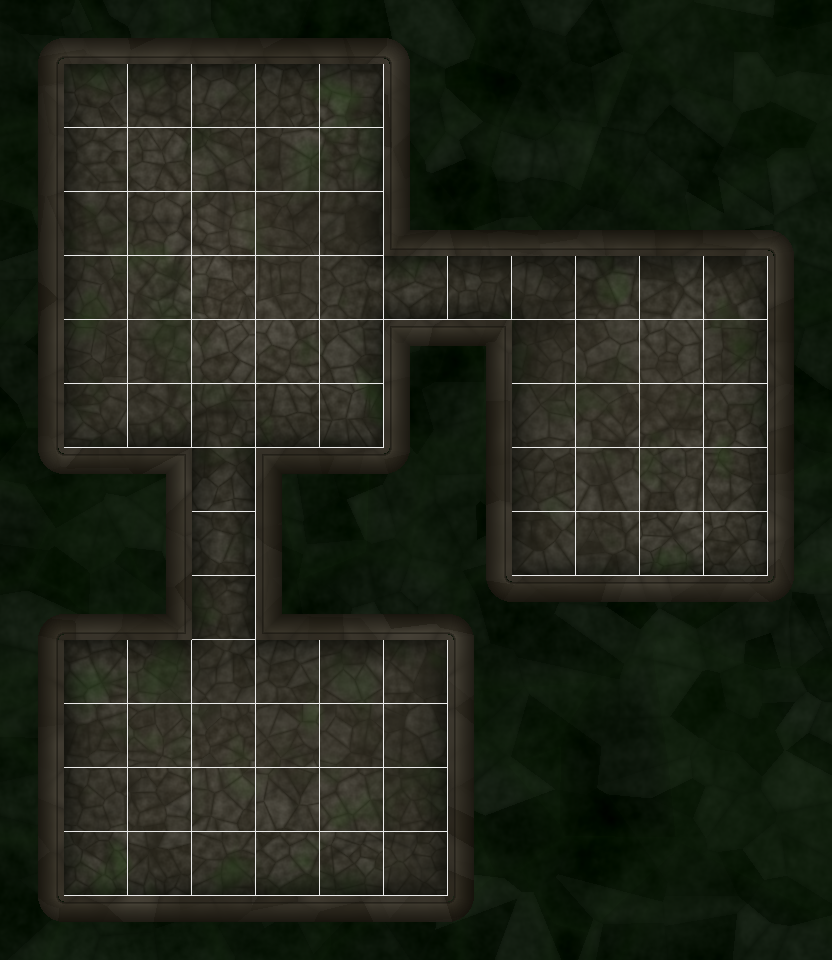
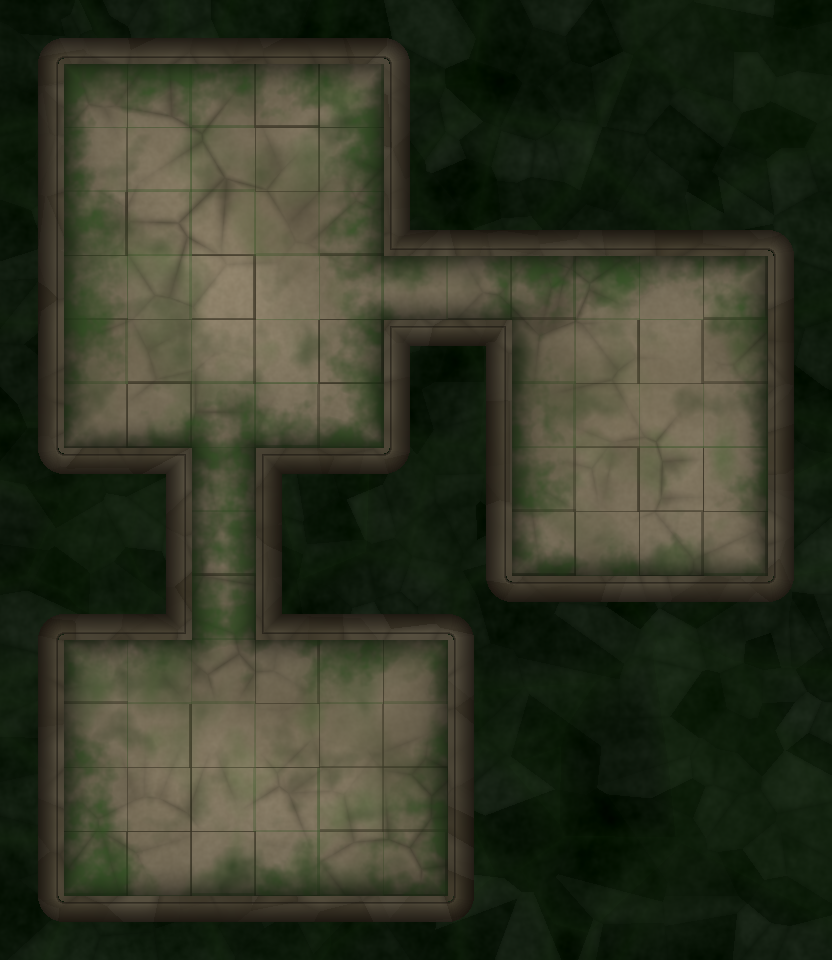
Simple tiles, variable grout, vine invasion, warm jungle palette
Inspired by AI-generated reference image:
- Floor tiles simplified to subtle flat texture (detail comes from
  grout and overlays, not busy tile surfaces).
- Variable-width grout lines (1-3px) with per-edge random darkness
  and optional moss fill, replacing the uniform grid overlay.
- Vine invasion layer: theme-colored tendrils creep from exterior
  into rooms along walls using multi-scale noise for organic shapes.
- Jungle palette shifted to warm tan/beige sandstone to match
  classic temple ruin aesthetic.

diff --git a/tools/texgen/preview.py b/tools/texgen/preview.py
@@ -156,21 +156,21 @@ def make_floor_mask():
 THEMES = {
     'jungle': {
         'name': 'Jungle Temple',
-        'floor_base': (82, 78, 68),
-        'floor_accent': (58, 53, 42),
-        'mortar': (42, 38, 28),
-        'moss_colors': [(40, 82, 30), (58, 105, 40), (48, 70, 35)],
-        'stain': (50, 45, 35),
-        'wall_top': (55, 50, 40),
-        'wall_face_lit': (65, 60, 48),
-        'wall_face_dark': (25, 22, 15),
-        'exterior': (10, 22, 8),
-        'exterior_accent': (5, 12, 4),
-        'exterior_detail': (15, 30, 10),
-        'shadow_color': (8, 12, 5),
+        'floor_base': (155, 142, 118),       # Warm tan sandstone
+        'floor_accent': (135, 122, 98),      # Slightly darker tan
+        'mortar': (65, 58, 42),              # Dark grout
+        'moss_colors': [(45, 85, 32), (62, 110, 42), (30, 55, 22)],
+        'stain': (90, 82, 60),              # Warm dirt stain
+        'wall_top': (75, 68, 52),
+        'wall_face_lit': (85, 78, 60),
+        'wall_face_dark': (30, 25, 18),
+        'exterior': (12, 25, 10),
+        'exterior_accent': (6, 14, 5),
+        'exterior_detail': (18, 35, 12),
+        'shadow_color': (20, 22, 15),
         'stone_density': 0.7,
-        'moss_coverage': 0.35,
-        'contrast': 35,
+        'moss_coverage': 0.45,
+        'contrast': 15,                      # Subtle tile variation
     },
     'ice': {
         'name': 'Frozen Caverns',
@@ -216,55 +216,40 @@ THEMES = {
 # ---------------------------------------------------------------------------
 
 def generate_floor_tile(size, theme, seed):
-    """Generate a single unique floor tile on the fly."""
+    """
+    Generate a simple, subtle floor tile. Mostly flat with gentle
+    color variation — the detail comes from grout and overlays,
+    not the tile surface itself.
+    """
     pn = VectorPerlinNoise(seed)
     rng = np.random.RandomState(seed)
 
     base = np.array(theme['floor_base'], dtype=np.float64)
     accent = np.array(theme['floor_accent'], dtype=np.float64)
-    mortar = np.array(theme['mortar'], dtype=np.float64)
-    n_cells = int(6 + rng.randint(6))  # 6-11 cells per tile for variety
-
-    # Voronoi for stone blocks
-    pts = rng.uniform(0, size, (n_cells, 2))
-    cell_vals = rng.uniform(0.2, 1.0, n_cells)
-    # Tile 3x3 for seamless edges
-    pts_tiled = []
-    vals_tiled = []
-    for dx in (-size, 0, size):
-        for dy in (-size, 0, size):
-            pts_tiled.append(pts + np.array([dx, dy]))
-            vals_tiled.append(cell_vals)
-    pts_all = np.concatenate(pts_tiled)
-    vals_all = np.concatenate(vals_tiled)
 
     yy, xx = np.mgrid[0:size, 0:size]
-    coords = np.stack([xx.ravel(), yy.ravel()], axis=1).astype(np.float64)
-    dists = np.sqrt(((coords[:, None, :] - pts_all[None, :, :]) ** 2).sum(axis=2))
-    nearest = np.argmin(dists, axis=1)
-    cells = vals_all[nearest].reshape(size, size)
-    part = np.partition(dists, 2, axis=1)[:, :2]
-    part.sort(axis=1)
-    edges = (part[:, 1] - part[:, 0]).reshape(size, size)
-    mn, mx = edges.min(), edges.max()
-    if mx - mn > 1e-8:
-        edges = (edges - mn) / (mx - mn)
-
-    # Surface noise
-    x_scaled = xx.astype(np.float64) / size * 6.0
-    y_scaled = yy.astype(np.float64) / size * 6.0
-    surface = pn.fbm_2d(x_scaled, y_scaled, octaves=3)
+    # Gentle surface variation (low frequency, low amplitude)
+    x_scaled = xx.astype(np.float64) / size * 3.0
+    y_scaled = yy.astype(np.float64) / size * 3.0
+    surface = pn.fbm_2d(x_scaled, y_scaled, octaves=2)
     surface = (surface - surface.min()) / (surface.max() - surface.min() + 1e-8)
 
+    # Very fine grain texture
+    x_fine = xx.astype(np.float64) / size * 10.0
+    y_fine = yy.astype(np.float64) / size * 10.0
+    fine = pn.fbm_2d(x_fine + 50, y_fine + 50, octaves=2)
+    fine = (fine - fine.min()) / (fine.max() - fine.min() + 1e-8)
+
+    # Random overall hue shift for this tile
+    hue_shift = rng.uniform(-0.15, 0.15)
+
     tile = np.zeros((size, size, 4), dtype=np.float64)
-    t = cells
-    contrast = theme['contrast']
+    t = 0.5 + hue_shift + (surface - 0.5) * 0.3
+    t = np.clip(t, 0, 1)
     for c in range(3):
         color = base[c] * t + accent[c] * (1 - t)
-        color += (surface - 0.5) * contrast
-        # Mortar lines
-        mortar_mask = np.clip(1.0 - edges * 4.0, 0, 1) ** 1.5
-        color = color * (1 - mortar_mask * 0.7) + mortar[c] * mortar_mask * 0.7
+        # Very subtle fine grain
+        color += (fine - 0.5) * 8
         tile[:, :, c] = np.clip(color, 0, 255)
     tile[:, :, 3] = 255
     return tile
@@ -272,21 +257,145 @@ def generate_floor_tile(size, theme, seed):
 
 def stamp_unique_floors(canvas_arr, floor_mask, theme):
     """Stamp a unique procedural tile for every floor cell. No repeats."""
-    print("    Floor tiles (128 unique)...", end='', flush=True)
-    # Count floor cells and pre-generate enough unique tiles
+    print("    Floor tiles...", end='', flush=True)
     floor_cells = [(r, c) for r in range(ROWS) for c in range(COLS) if LAYOUT[r, c] == 1]
     n_tiles = max(len(floor_cells), 128)
-    tiles = []
-    for i in range(n_tiles):
-        tiles.append(generate_floor_tile(TILE, theme, seed=1000 + i))
+    tiles = [generate_floor_tile(TILE, theme, seed=1000 + i) for i in range(n_tiles)]
 
-    # Assign tiles to cells — just use sequential assignment (all unique)
     rng = np.random.RandomState(42)
     indices = list(range(n_tiles))
     rng.shuffle(indices)
     for idx, (r, c) in enumerate(floor_cells):
         tile = tiles[indices[idx % n_tiles]]
         canvas_arr[r*TILE:(r+1)*TILE, c*TILE:(c+1)*TILE] = tile
+    print(" done")
+
+
+def render_grout(canvas_arr, floor_mask, theme):
+    """
+    Draw grout/mortar lines between floor tiles with varying width
+    and darkness. Each edge gets a slightly different width (1-3px)
+    seeded by position. Some edges get moss-filled grout.
+    """
+    print("    Grout lines...", end='', flush=True)
+    mortar = np.array(theme['mortar'], dtype=np.float64)
+    moss_colors = theme['moss_colors']
+    rng = np.random.RandomState(99)
+
+    for r in range(ROWS):
+        for c in range(COLS):
+            if LAYOUT[r, c] != 1:
+                continue
+            x0, y0 = c * TILE, r * TILE
+
+            # Determine grout properties seeded by position
+            h_seed = hash((r, c, 'h')) & 0xFFFF
+            v_seed = hash((r, c, 'v')) & 0xFFFF
+            h_rng = np.random.RandomState(h_seed)
+            v_rng = np.random.RandomState(v_seed)
+
+            # Bottom edge grout (if cell below is also floor)
+            h_width = h_rng.randint(1, 4)  # 1-3px
+            h_dark = 0.5 + h_rng.uniform(0, 0.4)  # darkness
+            h_mossy = h_rng.random() < theme['moss_coverage']
+
+            for dy in range(h_width):
+                py = y0 + TILE - 1 - dy
+                if py < 0 or py >= PX_H:
+                    continue
+                for px in range(x0, min(x0 + TILE, PX_W)):
+                    if not floor_mask[py, px]:
+                        continue
+                    t = h_dark * (1 - dy / max(h_width, 1) * 0.3)
+                    if h_mossy and len(moss_colors) > 0:
+                        mc = np.array(moss_colors[0], dtype=np.float64)
+                        for ch in range(3):
+                            canvas_arr[py, px, ch] = np.clip(
+                                canvas_arr[py, px, ch] * (1 - t * 0.5) + mc[ch] * t * 0.5, 0, 255)
+                    else:
+                        for ch in range(3):
+                            canvas_arr[py, px, ch] = np.clip(
+                                canvas_arr[py, px, ch] * (1 - t) + mortar[ch] * t, 0, 255)
+
+            # Right edge grout
+            v_width = v_rng.randint(1, 4)
+            v_dark = 0.5 + v_rng.uniform(0, 0.4)
+            v_mossy = v_rng.random() < theme['moss_coverage']
+
+            for dx in range(v_width):
+                px = x0 + TILE - 1 - dx
+                if px < 0 or px >= PX_W:
+                    continue
+                for py in range(y0, min(y0 + TILE, PX_H)):
+                    if not floor_mask[py, px]:
+                        continue
+                    t = v_dark * (1 - dx / max(v_width, 1) * 0.3)
+                    if v_mossy and len(moss_colors) > 0:
+                        mc = np.array(moss_colors[0], dtype=np.float64)
+                        for ch in range(3):
+                            canvas_arr[py, px, ch] = np.clip(
+                                canvas_arr[py, px, ch] * (1 - t * 0.5) + mc[ch] * t * 0.5, 0, 255)
+                    else:
+                        for ch in range(3):
+                            canvas_arr[py, px, ch] = np.clip(
+                                canvas_arr[py, px, ch] * (1 - t) + mortar[ch] * t, 0, 255)
+    print(" done")
+
+
+def render_vine_invasion(canvas_arr, floor_mask, inner_dist, theme):
+    """
+    Vines/foliage/frost/lava creeping from the exterior into the rooms
+    along the walls. Uses wall proximity + noise to create organic
+    tendrils that invade the floor space.
+    """
+    if theme['moss_coverage'] <= 0:
+        return
+    print("    Vine invasion...", end='', flush=True)
+    # Multiple noise scales for organic tendril shapes
+    n1 = continuous_noise(PX_H, PX_W, scale=1.5, octaves=4, seed=800)
+    n2 = continuous_noise(PX_H, PX_W, scale=4.0, octaves=3, seed=801)
+    n3 = continuous_noise(PX_H, PX_W, scale=0.5, octaves=2, seed=802)
+
+    # Invasion distance: how far vines reach from wall
+    max_invasion = TILE * 1.8
+    # Base invasion mask: strong near walls, fading inward
+    wall_prox = np.clip(1.0 - inner_dist / max_invasion, 0, 1)
+
+    # Shape the invasion with noise — creates tendril/finger shapes
+    tendril = wall_prox * (0.3 + 0.7 * n1) * (0.5 + 0.5 * n2)
+    # Large-scale variation: some areas have more invasion
+    tendril *= (0.2 + 0.8 * np.clip(n3 * 1.5, 0, 1))
+
+    # Threshold to get defined edges
+    vine_mask = np.clip((tendril - 0.25) * 4.0, 0, 1)
+    vine_mask[~floor_mask] = 0
+
+    # Use multiple moss colors for depth
+    colors = [np.array(mc, dtype=np.float64) for mc in theme['moss_colors']]
+    if not colors:
+        return
+
+    # Layer 1: base vine color (darkest)
+    alpha1 = vine_mask * 0.6
+    for c in range(3):
+        canvas_arr[:, :, c] += (colors[0][c] - canvas_arr[:, :, c]) * alpha1
+
+    # Layer 2: highlights on thicker parts
+    if len(colors) > 1:
+        highlight_mask = np.clip((tendril - 0.4) * 5.0, 0, 1) * vine_mask
+        alpha2 = highlight_mask * 0.4
+        for c in range(3):
+            canvas_arr[:, :, c] += (colors[1][c] - canvas_arr[:, :, c]) * alpha2
+
+    # Layer 3: dark edges/shadows on vine mass
+    if len(colors) > 2:
+        # Use the gradient at the edge of vine coverage for shadow
+        edge_dark = vine_mask * np.clip(1.0 - tendril * 2, 0, 1)
+        alpha3 = edge_dark * 0.3
+        dark = colors[2] * 0.5
+        for c in range(3):
+            canvas_arr[:, :, c] += (dark[c] - canvas_arr[:, :, c]) * alpha3
+
     print(" done")
 
 
@@ -523,17 +632,20 @@ def render_preview(theme_name, output_path):
     print(" done")
 
     stamp_unique_floors(canvas_arr, floor_mask, theme)
+    render_grout(canvas_arr, floor_mask, theme)
 
     print("    Overlays...", end='', flush=True)
     render_overlays(canvas_arr, floor_mask, inner_dist, theme)
     print(" done")
 
+    render_vine_invasion(canvas_arr, floor_mask, inner_dist, theme)
     render_ao(canvas_arr, floor_mask, inner_dist)
     render_radial_lighting(canvas_arr, floor_mask, inner_dist, theme)
     render_walls(canvas_arr, floor_mask, theme)
 
     canvas = Image.fromarray(np.clip(canvas_arr, 0, 255).astype(np.uint8), 'RGBA')
-    render_grid(canvas, floor_mask)
+    # No more grid overlay — grout lines replace it
+    # render_grid(canvas, floor_mask)
     canvas.save(output_path)
     print(f"  -> {output_path}")
     return canvas
